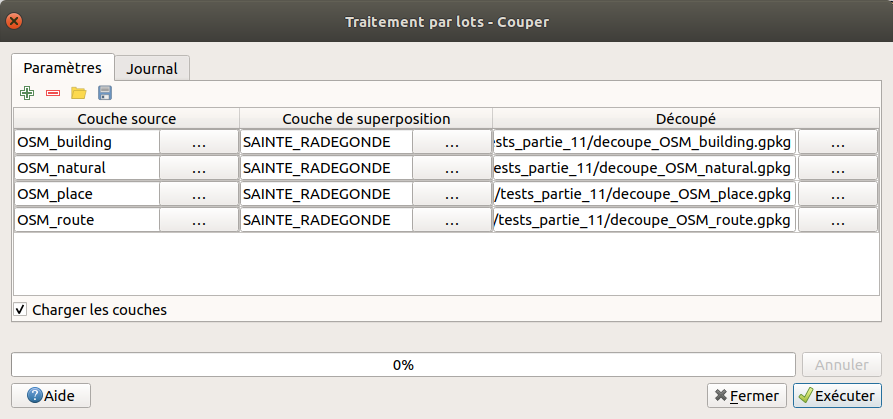
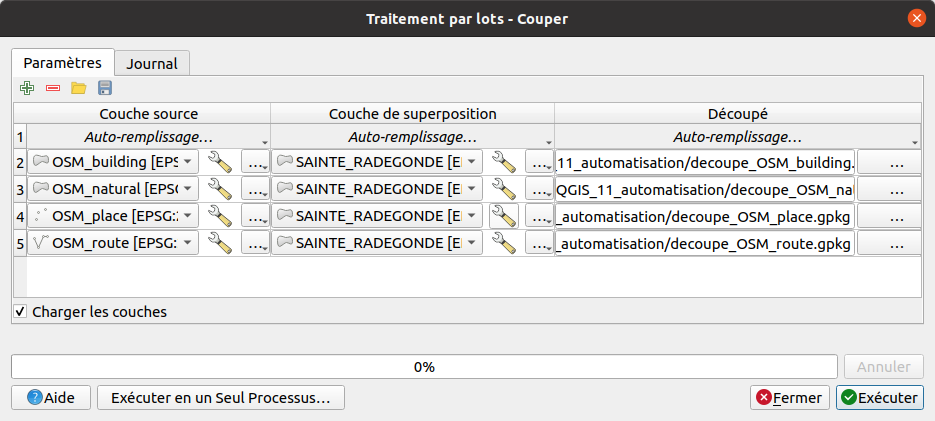
maj 3.22 partie 11

diff --git a/11_02_par_lot.php b/11_02_par_lot.php
@@ -18,26 +18,27 @@
 				
 				<div class="manip">
 					<p>Pour lancer l'outil de découpage en mode &#171;&nbsp;par lot&nbsp;&#187;&nbsp;: dans la boîte à outils, <b>clic droit sur Couper &#8594; Exécuter comme processus de lot...</b></p>
-					<p>Il est également possible d'utiliser l'outil en mode &#171; par lot &#187; : <b>clic droit sur Couper, Exécuter par lot</b>. Dans la fenêtre qui s'ouvre, <b>chaque ligne correspond à une instance de l'outil</b>. Chaque colonne correspond à un paramètre : la 1ère colonne à la couche en entrée, la 2ème à la couche de découpage (masque), la 3ème à la couche qui sera créée.</p>
+					<p>Dans la fenêtre qui s'ouvre, <b>chaque ligne correspond à une instance de l'outil</b>. Chaque colonne correspond à un paramètre : la 1ère colonne à la couche en entrée, la 2ème à la couche de découpage (masque), la 3ème à la couche qui sera créée.</p>
 					<p>Pour remplir chacune des colonnes :</p>
 					<ul>
-						<li class="espace"><b>Couche source:</b> cliquer sur les <b>…</b> de la première ligne &#8594; <b>Sélectionner à partir des couches chargées</b> et cochez les 4 couches OSM à découper (si ces couches n'étaient pas chargées 	dans QGIS, utiliser l'option Sélectionner des fichiers).</li>
-						<li class="espace"><b>Couche de superposition :</b> comme précédemment, cliquer sur les <b>…</b> de la première ligne &#8594; <b>Sélectionner à partir des couches chargées</b> et cocher <b>SAINTE_RADEGONDE</b>. La première ligne est maintenant remplie. Pour remplir toutes les lignes de manière identique : double-cliquez sur l'en-tête de colonne <b>Couche de superposition</b>.</li>
-						<li class="espace"><b>Découpé :</b> cliquer sur les <b>…</b>, rendez-vous dans le dossier où vous voulez créer les nouvelles couches, tapez <b>decoupe_</b> et cliquez sur <b>Enregistrer</b>. Dans la fenêtre suivante : choisir 
+						<li class="espace"><b>Couche source&nbsp;:</b> sur la première ligne, cliquer sur <b>Auto-remplissage…</b> &#8594; <b>Sélectionner à partir des couches chargées</b> et cochez les 4 couches OSM à découper (si ces couches n'étaient pas chargées 	dans QGIS, utiliser l'option Sélectionner des fichiers).</li>
+						<li class="espace">Supprimez ensuite la ligne créée par défaut (remplie avec SAINTE_RADEGONDE pour les 2 1ères colonnes)&nbsp;: il faut la sélectionner en cliquant sur son numéro de ligne (2) puis cliquer sur le bouton <b>Supprimer la/les ligne(s)</b> (signe &#171;&nbsp;-&nbsp;&#187; rouge)</li>
+						<li class="espace"><b>Couche de superposition :</b> par défaut cette colonne devrait déjà être remplie correctement avec SAINTE_RADEGONDE. Si ça n'était pas le cas, sélectionnez SAINTE_RADEGONDE sur la ligne 2, puis cliquez sur Auto-remplissage… &#8594; Remplir</li>
+						<li class="espace"><b>Découpé :</b> cliquer sur les <b>…</b> de la ligne 2, rendez-vous dans le dossier où vous voulez créer les nouvelles couches, tapez <b>decoupe_</b> et cliquez sur <b>Enregistrer</b>. Dans la fenêtre suivante : choisir 
 						<a class="thumbnail_bottom" href="#thumb">Remplir avec les valeurs du paramètre, Couche source
                         	<span>
-                        		<img src="illustrations/tous/11_02_remplir_val_parametre.png" alt="Fenêtre pour choisir de compléter le nom de chaque couche résultat en fonction de la couche en entrée" width="600" >
+                        		<img src="illustrations/tous/11_02_remplir_val_parametre.png" alt="Fenêtre pour choisir de compléter le nom de chaque couche résultat en fonction de la couche en entrée" width="500" >
                         	</span>
                         </a>, afin que le nom de chaque couche qui sera créée soit complété par le nom de la couche OSM de départ.</li>
 					</ul>
+					<p>N'oubliez pas de cocher la case <b>Charger les couches</b> pour que les couches résultat soient automatiquement ajoutées à QGIS.</p>
 					<p>Au final, vous devez obtenir quelque chose de similaire à ceci (cliquez sur l'image pour la voir en plus grand) :</p>
 					<figure>
 						<a href="illustrations/tous/11_02_lot_complet.png" >
 							<img src="illustrations/tous/11_02_lot_complet.png" alt="Traitement par lot : fenêtre avec paramètres complétés" width="600">
 						</a>
 					</figure>
-					<p>N'oubliez pas de cocher la case <b>Charger les couches</b> pour que les couches résultat soient automatiquement ajoutées à QGIS.</p>
-					<p>Cliquer sur <b>Exécuter</b>, patienter… Les 4 couches sont créées et ajoutées à QGIS. Il est possible qu'elles soient toute nommées &#171; Découpé &#187;. Dans ce cas, vous pouvez les supprimer et les rajouter pour qu'elles apparaissent avec le bon nom.</p>
+					<p>Cliquer sur <b>Exécuter</b>, patienter… Les 4 couches sont créées et ajoutées à QGIS.</p>
 				</div>
 				
 				<p>Tous les outils de la boîte Traitements sont exécutables par lot.</p>

diff --git a/11_04_python.php b/11_04_python.php
@@ -26,7 +26,7 @@
 				<p class="code">qgis.utils.iface.addVectorLayer("/mnt/travail/temp/SAINTE_RADEGONDE.shp", "SAINTE_RADEGONDE", "ogr")</p>
 				<p>Ce qui revient à lancer l'outil d'ajout de couche vecteur <b>addVectorLayer</b> de QGIS, avec 3 paramètres :</p>
 				<ul>
-					<li>l'emplacement de la couche : <b>/mnt/travail/temp/SAINTE_RADEGONDE.shp</b></li>
+					<li>l'emplacement de la couche : <b>/mnt/travail/temp/SAINTE_RADEGONDE.shp</b> (ce chemin va bien sûr varier)</li>
 					<li>le nom avec lequel la couche sera affichée dans QGIS : <b>SAINTE_RADEGONDE</b></li>
 					<li>le nom du fournisseur de données : <b>ogr</b> car QGIS utilise en interne une <a class="ext" target="_blank" href="https://fr.wikipedia.org/wiki/Biblioth%C3%A8que_logicielle">bibliothèque</a> nommée ogr pour accéder aux shapefiles</li>
 				</ul>
@@ -105,9 +105,18 @@
 					
 				
 				<h3><a class="titre" id="XI44">Lancer et éditer un script<a class="headerlink" id="XI44" href="#XI44"></a></h3>
+				
+          <p>Pour savoir comment appeler un outil en python, une astuce est de d'abord le lancer &#171;&nbsp;normalement&nbsp;&#187; puis d'aller dans le <b>menu Traitement &#8594; Historique</b> et cliquer sur la ligne correspondante. En bas de la fenêtre, vous aurez la commande Python qui a été exécutée cette fois-là&nbsp;:</p>				
+				  <figure>
+				    <a href="illustrations/tous/11_04_historique.png" >
+			       <img class="icone" src="illustrations/tous/11_04_historique.png" alt="Fenêtre Historique" width="600">
+			      </a>
+			    </figure>
+			    <p class="note">L'historique est aussi très utile pour relancer rapidement un outil avec exactement les mêmes paramètres que la fois précédente, il suffit de double-cliquer sur la ligne correspondante&nbsp;!</p>
+					    
 					<div class="manip">
 					    <figure>
-						  <a href="illustrations/tous/11_04_executer_script_icone.png" >
+						    <a href="illustrations/tous/11_04_executer_script_icone.png" >
 					       <img class="icone" src="illustrations/tous/11_04_executer_script_icone.png" alt="icône exécuter le script dans la barre d'outil de l'éditeur de scripts" >
 					      </a>
 					    </figure>
@@ -121,11 +130,11 @@
 						<div class="question">
 							<input type="checkbox" id="faq-2">
 							<p><label for="faq-2">au lieu de l'outil Clip de découpage, ce soit l'outil Intersection qui soit utilisé ?</label></p>
-							<p class="reponse">Ligne 46 remplacez <b>qgis:clip</b> par ce nom : <b>qgis:intersection</b>. Pour en savoir plus, vous pouvez voir <a href="https://docs.qgis.org/testing/en/docs/user_manual/processing/console.html#using-processing-algorithms-from-the-console" >ici</a>.</p>
+							<p class="reponse">Ligne 46 remplacez <b>native:clip</b> par ce nom : <b>native:intersection</b>. Pour en savoir plus, vous pouvez voir <a href="https://docs.qgis.org/testing/en/docs/user_manual/processing/console.html#using-processing-algorithms-from-the-console" >ici</a>.</p>
 						</div>
 					</div>
 					
-					<p>Pour en savoir plus sur le sujet, vous pouvez lire par exemple <a href="https://docs.qgis.org/3.4/fr/docs/pyqgis_developer_cookbook/intro.html" >ici</a>.</p>
+					<p>Pour en savoir plus sur le sujet, vous pouvez lire par exemple <a href="https://docs.qgis.org/latest/fr/docs/pyqgis_developer_cookbook/intro.html" >ici</a>.</p>
 					
 				<br>
 				<a class="prec" href="11_03_modeleur.php">chapitre précédent</a>

diff --git a/11_01_traitement_de_base.php b/11_01_traitement_de_base.php
@@ -28,7 +28,7 @@
 					<div class="question">
                 		<input type="checkbox" id="faq-1">
                 		<p><label for="faq-1">Vérifier que toutes les couches aient bien le même SCR. Quel est ce SCR&nbsp;?</label></p>
-                		<p class="reponse">En allant dans les propriétés de chaque couche, rubrique Source, on peut constater qu'elles sont toutes en RGF93/Lambert 93, code EPSG 2154.</p>
+                		<p class="reponse">En allant dans les propriétés de chaque couche, rubrique Source (ou bien en survolant le nom de chaque couche et en lisant l'infobulle), on peut constater qu'elles sont toutes en RGF93/Lambert 93, code EPSG 2154.</p>
                 	</div>
                 	
 					<p>Pour découper la couche de routes par la commune :

diff --git a/11_03_modeleur.php b/11_03_modeleur.php
@@ -84,7 +84,7 @@
 							</a>
 						</figure>
 						<div class="manip">
-						  <p><img class="icone" src="illustrations/tous/11_03_zoom_icone.png" alt="icône zoom complet" >Si à un moment donné vous ne voyez plus votre modèle dans la partir droite de la fenêtre, cliquez sur l'icône <b>Zoom complet</b>.</p>
+						  <p><img class="icone" src="illustrations/tous/11_03_zoom_icone.png" alt="icône zoom complet" >Si à un moment donné vous ne voyez plus votre modèle dans la partie droite de la fenêtre, cliquez sur l'icône <b>Zoom complet</b>.</p>
 						</div>
 						
 						

diff --git a/11_00_automatisation.php b/11_00_automatisation.php
@@ -17,7 +17,7 @@
 			<p>Nous allons utiliser 3 méthodes différentes pour cela.</p>
 			<p>Notions abordées :</p>
 				<ul>
-					<li>Exécution d'un outil "par lot"</li>
+					<li>Exécution d'un outil &#171;&nbsp;par lot&nbsp;&#187;</li>
 					<li>Modeleur de traitement (graphical modeler)</li>
 					<li>Script Python</li>
 				</ul>
